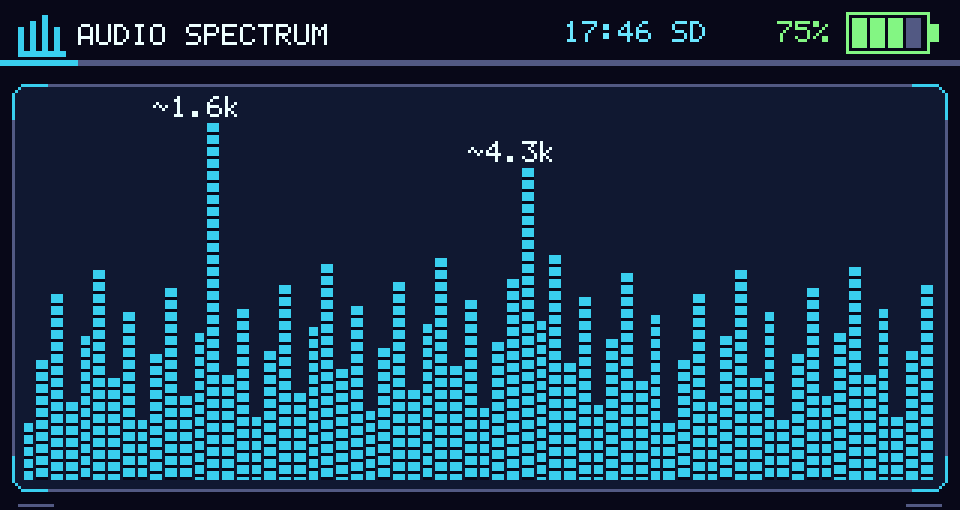
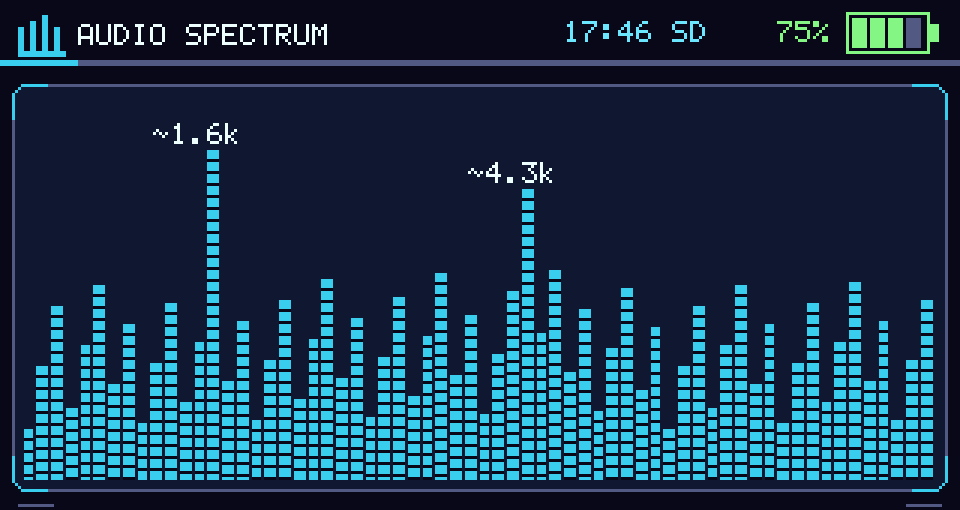
Keep long titles and full-scale spectrum peaks clear of UI text

Changed region(s): [[0.0, 0.1765, 0.9688, 0.9412], [0.0312, 0.5588, 0.0625, 0.6176]]

diff --git a/tests/ui_host/preview.c b/tests/ui_host/preview.c
@@ -130,6 +130,8 @@ bool battery_get_status( battery_status_t *a_status )
     return true;
 }
 void audio_spectrum_view_render( void );
+static uint8_t audio_peak_level = 93U;
+
 size_t recorder_monitor_bins( uint8_t *a_bins, size_t a_capacity )
 {
     const size_t count = a_capacity < 64U ? a_capacity : 64U;
@@ -137,7 +139,7 @@ size_t recorder_monitor_bins( uint8_t *a_bins, size_t a_capacity )
         a_bins[ i ] = (uint8_t)( 15U + ( i * 17U % 45U ) );
     if( count > 36U )
     {
-        a_bins[ 13 ] = 93U;
+        a_bins[ 13 ] = audio_peak_level;
         a_bins[ 35 ] = 82U;
     }
     return count;
@@ -246,6 +248,33 @@ static void check_overlay_restoration( bool a_modal )
                 assert( presented[ i ] == pixels[ i ] );
         }
     display_modal_clear();
+}
+
+/** @brief Header titles must stay left of global status for every persisted theme. */
+static void check_header_titles( void )
+{
+    for( unsigned id = 0U; id < RFSCOUT_THEME_COUNT; ++id )
+    {
+        assert( ESP_OK == ui_theme_set( (rfscout_theme_id_t)id ) );
+        display_clear( 0 );
+        ui_chrome_draw( "AN EXTREMELY LONG APPLICATION TITLE", ui_theme_get()->text );
+        for( int y = 0; y < 20; ++y )
+            for( int x = 142; x < 188; ++x )
+                assert( pixels[ y * 320 + x ] == ui_theme_get()->background );
+    }
+    assert( ESP_OK == ui_theme_set( RFSCOUT_THEME_PIXEL_QUEST ) );
+}
+
+/** @brief Full-scale audio peaks must leave readable space above their top. */
+static void check_audio_peak_labels( void )
+{
+    audio_peak_level = 100U;
+    audio_spectrum_view_render();
+    for( int y = 32; y < 41; ++y )
+        for( int x = 8; x < 312; ++x )
+            assert( pixels[ y * 320 + x ] != ui_theme_get()->graph_primary );
+    assert( pixels[ 41 * 320 + 69 ] == ui_theme_get()->graph_primary );
+    audio_peak_level = 93U;
 }
 
 /** @brief App-specific label colors must not change the shared blue navigation/edit cursor. */
@@ -402,6 +431,8 @@ int main( int a_argc, char **a_argv )
     assert( a_argc == 2 );
     assert( ESP_OK == ui_theme_init() );
     checks();
+    check_header_titles();
+    check_audio_peak_labels();
     check_menu_cursor();
     check_hud_bounds();
     check_battery_states();

diff --git a/main/apps/audio_spectrum/view.c b/main/apps/audio_spectrum/view.c
@@ -16,9 +16,12 @@
 #include <stdio.h>
 
 #define AUDIO_SPECTRUM_GRAPH_X 8
-#define AUDIO_SPECTRUM_GRAPH_Y 32
+#define AUDIO_SPECTRUM_PLOT_Y 32
+#define AUDIO_SPECTRUM_PLOT_H ( RFSCOUT_DISPLAY_HEIGHT - 42 )
+#define AUDIO_SPECTRUM_LABEL_H 9
+#define AUDIO_SPECTRUM_GRAPH_Y ( AUDIO_SPECTRUM_PLOT_Y + AUDIO_SPECTRUM_LABEL_H )
 #define AUDIO_SPECTRUM_GRAPH_W ( RFSCOUT_DISPLAY_WIDTH - 16 )
-#define AUDIO_SPECTRUM_GRAPH_H ( RFSCOUT_DISPLAY_HEIGHT - 42 )
+#define AUDIO_SPECTRUM_GRAPH_H ( AUDIO_SPECTRUM_PLOT_H - AUDIO_SPECTRUM_LABEL_H )
 #define AUDIO_SPECTRUM_PEAK_MIN_PERCENT 60U
 #define AUDIO_SPECTRUM_MAX_PEAK_LABELS 3U
 #define AUDIO_SPECTRUM_LABEL_WIDTH 36
@@ -130,9 +133,9 @@ static void draw_peak_labels( const uint8_t *a_bins, size_t a_count )
 
         const int height = (int)peaks[ index ].level * AUDIO_SPECTRUM_GRAPH_H / 100;
         int y = AUDIO_SPECTRUM_GRAPH_Y + AUDIO_SPECTRUM_GRAPH_H - height - 9;
-        if( y < AUDIO_SPECTRUM_GRAPH_Y )
+        if( y < AUDIO_SPECTRUM_PLOT_Y )
         {
-            y = AUDIO_SPECTRUM_GRAPH_Y;
+            y = AUDIO_SPECTRUM_PLOT_Y;
         }
         display_draw_text( x_text, y, label, theme->text, 1U );
         label_x[ drawn++ ] = x_text;
@@ -150,9 +153,9 @@ void audio_spectrum_view_render( void )
     if( ui_game_active() )
     {
         ui_game_draw_panel( AUDIO_SPECTRUM_GRAPH_X - 4,
-                            AUDIO_SPECTRUM_GRAPH_Y - 4,
+                            AUDIO_SPECTRUM_PLOT_Y - 4,
                             AUDIO_SPECTRUM_GRAPH_W + 8,
-                            AUDIO_SPECTRUM_GRAPH_H + 8,
+                            AUDIO_SPECTRUM_PLOT_H + 8,
                             theme->divider );
     }
 

diff --git a/main/services/display/ui_chrome.c b/main/services/display/ui_chrome.c
@@ -39,13 +39,11 @@ void ui_chrome_draw( const char *a_title, uint16_t a_title_color )
     }
     if( NULL != a_title )
     {
-        char bounded_title[ 20 ];
-        const char *title = a_title;
-        if( game )
-        {
-            snprintf( bounded_title, sizeof( bounded_title ), "%s", a_title );
-            title = bounded_title;
-        }
+        char bounded_title[ 24 ];
+        const int title_capacity =
+            ( UI_CHROME_STATUS_SAFE_X - title_x ) / UI_CHROME_FONT_CELL_WIDTH;
+        snprintf( bounded_title, sizeof( bounded_title ), "%.*s", title_capacity, a_title );
+        const char *title = bounded_title;
         const size_t title_length = strlen( title );
         const int large_width =
             (int)title_length * UI_CHROME_FONT_CELL_WIDTH * (int)UI_CHROME_TITLE_SCALE_LARGE;

diff --git a/docs/ARCHITECTURE.md b/docs/ARCHITECTURE.md
@@ -265,14 +265,14 @@ network/update/time/power/app menus, radio/source/channel settings, and notifica
 inherit the same chrome and explicit menu markers. Device names and packet text are never
 reinterpreted as selection markers.
 
-The title icon occupies x=6–21 and the bounded title ends before the status region at x=142.
+The title icon occupies x=6–21 and the bounded title ends before the status region at x=142. Every theme bounds long titles to that same status boundary.
 The game header's divider occupies y=20–21; menu selection bands clamp to y≥22, and the footer
 endcaps occupy y=168. Existing data origins and rotary/Select/Long Press/Hold semantics remain
 unchanged. Blue cursor glyphs and corner tabs identify the selected row consistently across apps within its existing band. The selection triangle becomes a hollow diamond while editing. In other themes,
 these menu helpers render the original textual markers and graphs retain continuous columns.
 
 Radio/audio graph gaps decorate the columns without quantizing their height, moving
-peaks, or changing source measurements. Audio Spectrum uses a centered 304×128 plot below the header; its automatic range follows the measured floor/peak without a fixed span clamp. Segmented battery and Recorder playback-volume meters preserve proportional fill, with dim unlit capacity cells. Zero/unknown/charging battery states leave the capacity cells unlit; the existing percentage/unknown text and charging bolt remain visible. Battery urgency, unavailable states, lock distinctions, and charging presentation remain semantic. Thermal's literal image pixels continue to bypass
+peaks, or changing source measurements. Audio Spectrum uses a centered 304×128 plot below the header, with nine pixels reserved above the bars for peak labels; its automatic range follows the measured floor/peak without a fixed span clamp. Segmented battery and Recorder playback-volume meters preserve proportional fill, with dim unlit capacity cells. Zero/unknown/charging battery states leave the capacity cells unlit; the existing percentage/unknown text and charging bolt remain visible. Battery urgency, unavailable states, lock distinctions, and charging presentation remain semantic. Thermal's literal image pixels continue to bypass
 palette translation; its relative-IR/calibration warnings remain visible.
 
 Global dialogs use clipped corners and short colored brackets contained entirely inside the existing 236×70 saved

diff --git a/docs/apps/AUDIO_SPECTRUM.md b/docs/apps/AUDIO_SPECTRUM.md
@@ -21,7 +21,7 @@ Audio Spectrum consumes raw capture PCM through the shared provider and applies 
 - FFT/bin presentation; and
 - up to three strong local peak-frequency labels.
 
-The spectrum fills a centered plot below the shared header, with up to three peak-frequency labels. Redundant microphone, automatic-range, filter-status, and navigation text are omitted. Automatic fit follows the measured floor and peak without a fixed minimum/maximum dB span, retaining 3 dB peak headroom and the existing smoothing. Silent input remains finite; range telemetry uses a floating-point dB value without the former 8-bit cap. Spectrum analysis does not apply Recorder's whole-recording normalization path.
+The spectrum fills a centered plot below the shared header, with up to three peak-frequency labels and a nine-pixel top label strip that keeps full-height peaks clear of their labels. Redundant microphone, automatic-range, filter-status, and navigation text are omitted. Automatic fit follows the measured floor and peak without a fixed minimum/maximum dB span, retaining 3 dB peak headroom and the existing smoothing. Silent input remains finite; range telemetry uses a floating-point dB value without the former 8-bit cap. Spectrum analysis does not apply Recorder's whole-recording normalization path.
 
 ## Sample-rate interpretation
 
